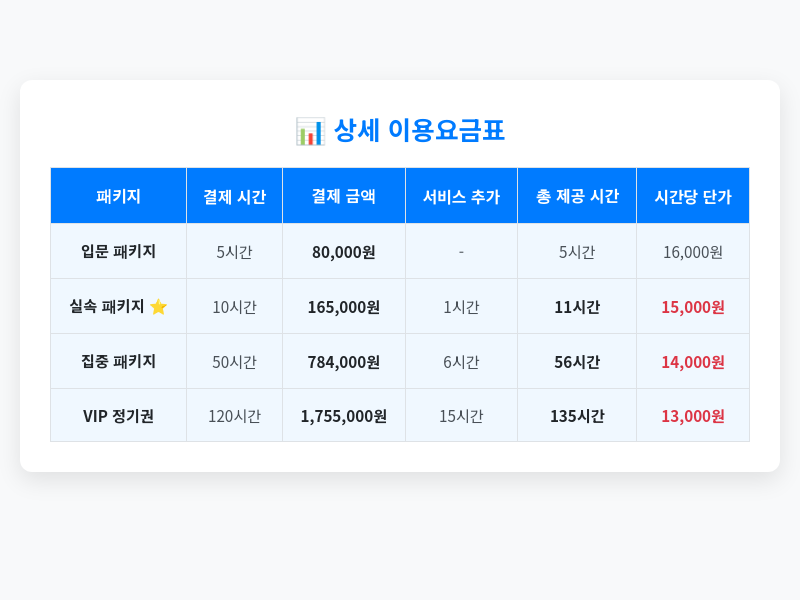
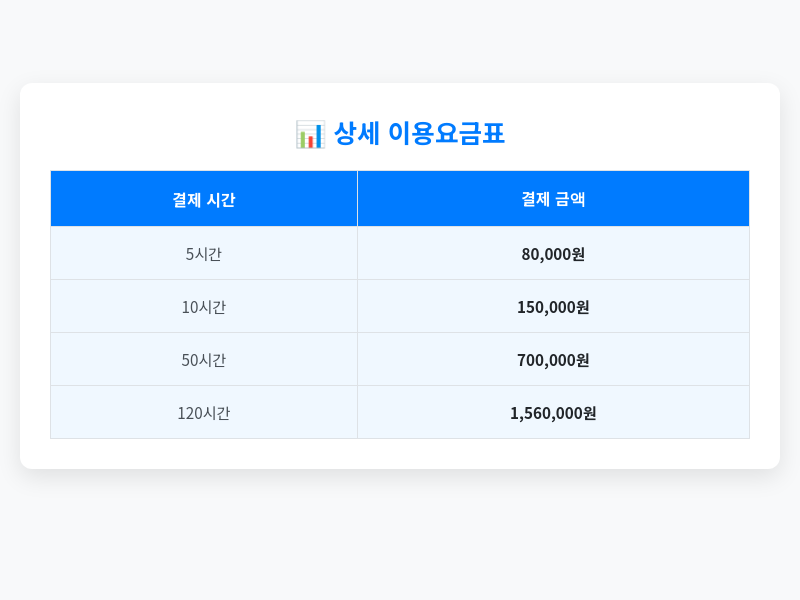
Final: Remove service hours benefit - 5h:80k, 10h:150k, 50h:700k, 120h:1560k

Changed region(s): [[0.0625, 0.18, 0.9375, 0.75], [0.0625, 0.78, 0.9375, 0.81]]

diff --git a/price_table_only.html b/price_table_only.html
@@ -36,10 +36,6 @@
             text-align: center;
             font-weight: 700;
         }
-        .highlight {
-            color: #dc3545;
-            font-weight: 700;
-        }
         table {
             width: 100%;
             border-collapse: collapse;
@@ -64,10 +60,6 @@
         td strong {
             color: #212529;
         }
-        .star {
-            color: #ffc107;
-            font-weight: 700;
-        }
     </style>
 </head>
 <body>
@@ -76,46 +68,26 @@
         <table>
             <thead>
                 <tr>
-                    <th>패키지</th>
                     <th>결제 시간</th>
                     <th>결제 금액</th>
-                    <th>서비스 추가</th>
-                    <th>총 제공 시간</th>
-                    <th>시간당 단가</th>
                 </tr>
             </thead>
             <tbody>
                 <tr>
-                    <td><strong>입문 패키지</strong></td>
                     <td>5시간</td>
                     <td><strong>80,000원</strong></td>
-                    <td>-</td>
-                    <td>5시간</td>
-                    <td>16,000원</td>
                 </tr>
                 <tr>
-                    <td><strong>실속 패키지</strong> <span class="star">⭐</span></td>
                     <td>10시간</td>
-                    <td><strong>165,000원</strong></td>
-                    <td>1시간</td>
-                    <td><strong>11시간</strong></td>
-                    <td><span class="highlight">15,000원</span></td>
+                    <td><strong>150,000원</strong></td>
                 </tr>
                 <tr>
-                    <td><strong>집중 패키지</strong></td>
                     <td>50시간</td>
-                    <td><strong>784,000원</strong></td>
-                    <td>6시간</td>
-                    <td><strong>56시간</strong></td>
-                    <td><span class="highlight">14,000원</span></td>
+                    <td><strong>700,000원</strong></td>
                 </tr>
                 <tr>
-                    <td><strong>VIP 정기권</strong></td>
                     <td>120시간</td>
-                    <td><strong>1,755,000원</strong></td>
-                    <td>15시간</td>
-                    <td><strong>135시간</strong></td>
-                    <td><span class="highlight">13,000원</span></td>
+                    <td><strong>1,560,000원</strong></td>
                 </tr>
             </tbody>
         </table>

diff --git a/client/src/pages/Services.tsx b/client/src/pages/Services.tsx
@@ -26,33 +26,33 @@ const servicePackages: ServicePackage[] = [
   },
   {
     id: 2,
-    duration: '10시간 결제 → 11시간 제공',
-    hours: 11,
-    price: 165000,
+    duration: '10시간',
+    hours: 10,
+    price: 150000,
     pricePerHour: 15000,
     popular: true,
-    description: '가장 인기 있는 실속 패키지 (1시간 서비스 추가 / 시간당 15,000원)',
-    features: ['실시간 진행 상황 보고', '이중 보안 인증', '카카오톡 상담', '작업 중간 보고서', '우선 기사 배정', '✨ 1시간 서비스 추가']
+    description: '가장 인기 있는 실속 패키지 (시간당 15,000원)',
+    features: ['실시간 진행 상황 보고', '이중 보안 인증', '카카오톡 상담', '작업 중간 보고서', '우선 기사 배정']
   },
   {
     id: 3,
-    duration: '50시간 결제 → 56시간 제공',
-    hours: 56,
-    price: 784000,
+    duration: '50시간',
+    hours: 50,
+    price: 700000,
     pricePerHour: 14000,
     popular: false,
-    description: '중장기 이용에 최적화된 패키지 (6시간 서비스 추가 / 시간당 14,000원)',
-    features: ['실시간 진행 상황 보고', '이중 보안 인증', '24시간 모니터링', '상세 작업 보고서', '우선 기사 배정', '스펙업 가이드 제공', '✨ 6시간 서비스 추가']
+    description: '중장기 이용에 최적화된 패키지 (시간당 14,000원)',
+    features: ['실시간 진행 상황 보고', '이중 보안 인증', '24시간 모니터링', '상세 작업 보고서', '우선 기사 배정', '스펙업 가이드 제공']
   },
   {
     id: 4,
-    duration: '120시간 결제 → 135시간 제공',
-    hours: 135,
-    price: 1755000,
+    duration: '120시간',
+    hours: 120,
+    price: 1560000,
     pricePerHour: 13000,
     popular: false,
-    description: '최고 대우의 VIP 정기권 (15시간 서비스 추가 / 시간당 13,000원)',
-    features: ['실시간 진행 상황 보고', '이중 보안 인증', '24시간 모니터링', '상세 작업 보고서', '최고 등급 기사 배정 (전담)', '긴급 상황 대응', '사후 관리 지원', '1:1 스펙업 컨설팅', '✨ 15시간 서비스 추가']
+    description: '최고 대우의 VIP 정기권 (시간당 13,000원)',
+    features: ['실시간 진행 상황 보고', '이중 보안 인증', '24시간 모니터링', '상세 작업 보고서', '최고 등급 기사 배정 (전담)', '긴급 상황 대응', '사후 관리 지원', '1:1 스펙업 컨설팅']
   }
 ];
 
